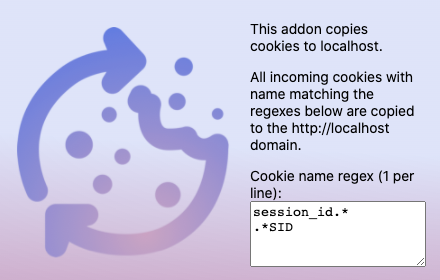
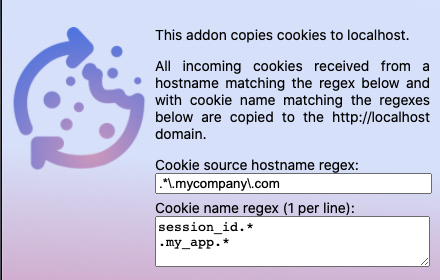
added hostname regex option

diff --git a/firefox/background.js b/firefox/background.js
@@ -1,25 +1,38 @@
-var defaultRgx = ["sessionid.*"].join('\n')
-var regexpesarray = [];
+var defaultHost = ".*\\.mycompany\\.com";
+var defaultNames = ["sessionid.*"].join('\n')
+
+var host;
+var namesArray = [];
 
 function updateRegexpes(save) {
-    browser.storage.local.get("regstr", function (res) {
-        var regstr = (res.regstr || defaultRgx);
+    browser.storage.local.get("regexNames", function (res) {
+        var regexNames = (res.regexNames || defaultNames);
+        namesArray = regexNames.split("\n")
+        register();
+    });
 
-        regexpesarray = regstr.split("\n")
-        console.log("updateRegexpes : " + regexpesarray)
-
-        browser.webRequest.onHeadersReceived.removeListener(onHeader)
-        browser.webRequest.onHeadersReceived.addListener(onHeader,
-            {urls: ["http://*/*", "https://*/*"]},
-            ["blocking", "responseHeaders"]
-        );
+    browser.storage.local.get("regexHost", function (res) {
+        host = (res.regexHost || defaultHost);
+        register();
     });
 }
 
+function register() {
+    browser.webRequest.onHeadersReceived.removeListener(onHeader)
+    browser.webRequest.onHeadersReceived.addListener(onHeader,
+        {urls: ["http://*/*", "https://*/*"]},
+        ["blocking", "responseHeaders"]
+    );
+}
+
 function onHeader(e) {
-    for (var header of e.responseHeaders) {
-        if (header.name.toLowerCase() === "set-cookie") {
-            copyCookies(header.value)
+    url = new URL(e.url);
+    urlhostname = url.hostname;
+    if (doesCookieHostMatch(urlhostname)) {
+        for (var header of e.responseHeaders) {
+            if (header.name.toLowerCase() === "set-cookie") {
+                copyCookies(header.value)
+            }
         }
     }
     return {responseHeaders: e.responseHeaders};
@@ -44,13 +57,18 @@ function copyCookies(headervalue) {
 }
 
 function doesCookieNameMatch(name) {
-    for (var regex of regexpesarray) {
+    for (var regex of namesArray) {
         if (name.match(regex)) {
             return true;
         }
     }
     return false;
 }
+
+function doesCookieHostMatch(cookiehost) {
+    return cookiehost.match(host);
+}
+
 updateRegexpes();
 
 var portFromCS;
@@ -58,8 +76,13 @@ var portFromCS;
 function connected(p) {
     portFromCS = p;
     portFromCS.onMessage.addListener(function (m) {
-        if (m.updateRegexpes) {
-            browser.storage.local.set({"regstr": m.updateRegexpes}, function (res) {
+        if (m.updateHost) {
+            browser.storage.local.set({"regexHost": m.updateHost}, function (res) {
+                updateRegexpes();
+            });
+        }
+        if (m.updateRegexNames) {
+            browser.storage.local.set({"regexNames": m.updateRegexNames}, function (res) {
                 updateRegexpes();
             });
         }

diff --git a/chrome/background.js b/chrome/background.js
@@ -1,24 +1,38 @@
-var defaultRgx = ["sessionid.*"].join('\n')
-var regexpesarray = [];
+var defaultHost = ".*\\.mycompany\\.com";
+var defaultNames = ["sessionid.*"].join('\n')
+
+var host;
+var namesArray = [];
 
 function updateRegexpes(save) {
-    chrome.storage.local.get("regstr", function (res) {
-        var regstr = (res.regstr || defaultRgx);
+    chrome.storage.local.get("regexNames", function (res) {
+        var regexNames = (res.regexNames || defaultNames);
+        namesArray = regexNames.split("\n")
+        register();
+    });
 
-        regexpesarray = regstr.split("\n")
-
-        chrome.webRequest.onHeadersReceived.removeListener(onHeader)
-        chrome.webRequest.onHeadersReceived.addListener(onHeader,
-            {urls: ["http://*/*", "https://*/*"]},
-            ["blocking", "responseHeaders", "extraHeaders"]
-        );
+    chrome.storage.local.get("regexHost", function (res) {
+        host = (res.regexHost || defaultHost);
+        register();
     });
 }
 
+function register() {
+    chrome.webRequest.onHeadersReceived.removeListener(onHeader)
+    chrome.webRequest.onHeadersReceived.addListener(onHeader,
+        {urls: ["http://*/*", "https://*/*"]},
+        ["blocking", "responseHeaders", "extraHeaders"]
+    );
+}
+
 function onHeader(e) {
-    for (var header of e.responseHeaders) {
-        if (header.name.toLowerCase() === "set-cookie") {
-            copyCookies(header.value)
+    url = new URL(e.url);
+    urlhostname = url.hostname;
+    if (doesCookieHostMatch(urlhostname)) {
+        for (var header of e.responseHeaders) {
+            if (header.name.toLowerCase() === "set-cookie") {
+                copyCookies(header.value)
+            }
         }
     }
     return {responseHeaders: e.responseHeaders};
@@ -43,13 +57,18 @@ function copyCookies(headervalue) {
 }
 
 function doesCookieNameMatch(name) {
-    for (var regex of regexpesarray) {
+    for (var regex of namesArray) {
         if (name.match(regex)) {
             return true;
         }
     }
     return false;
 }
+
+function doesCookieHostMatch(cookiehost) {
+    return cookiehost.match(host);
+}
+
 updateRegexpes();
 
 var portFromCS;
@@ -57,8 +76,13 @@ var portFromCS;
 function connected(p) {
     portFromCS = p;
     portFromCS.onMessage.addListener(function (m) {
-        if (m.updateRegexpes) {
-            chrome.storage.local.set({"regstr": m.updateRegexpes}, function (res) {
+        if (m.updateHost) {
+            chrome.storage.local.set({"regexHost": m.updateHost}, function (res) {
+                updateRegexpes();
+            });
+        }
+        if (m.updateRegexNames) {
+            chrome.storage.local.set({"regexNames": m.updateRegexNames}, function (res) {
                 updateRegexpes();
             });
         }

diff --git a/chrome/popup.html b/chrome/popup.html
@@ -8,7 +8,7 @@
     body {
         background: radial-gradient(129.7% 129.7% at 38.0% -17.6%, rgba(98, 132, 248, 0.2) 0%, rgba(82, 118, 235, 0.2) 23%, rgba(82, 118, 235, 0.2) 57%, rgba(210, 161, 197, 1) 100%);
         padding: 5px 10px 0px 5px;
-        width: 450px;
+        width: 275px;
         font-family: -apple-system, BlinkMacSystemFont, Segoe UI, Arial, sans-serif;
         color: black;
         font-size: 14px;
@@ -25,8 +25,14 @@
         margin-right: auto;
     }
 
-    textarea {
-        width: 100%;
+    textarea, input {
+        width: 269px;
+        margin-bottom: 5px;
+    }
+
+    a {
+        font-style: italic;
+        color: rgba(82, 118, 235, 0.5)
     }
 </style>
 
@@ -35,22 +41,19 @@
     This addon copies cookies to localhost.
 </p>
 <p>
-    All incoming cookies with name matching the regexes below are copied to the http://localhost domain.
+    All incoming cookies received from a hostname matching the regex below and with cookie name matching the regexes below are copied to the http://localhost domain.
 </p>
 
-<!--<div class="content">-->
-<!--    <a href="https://addons.mozilla.org/fr/firefox/addon/set-cookie-no-secure-httponly/" class="btn left">-->
-<!--        <span  class="right title"><span class="arrow-right"></span>Rate & About</span>-->
-<!--        <span class="left icon">&nbsp;&nbsp;⭐&nbsp;</span>-->
-<!--    </a>-->
-<!--</div>-->
-
+Cookie source hostname regex:
+<input type="text" class="regexhost"></input>
+<br>
 Cookie name regex (1 per line):
-<textarea class="regextextarea" rows="4"></textarea>
+<textarea class="regexnames" rows="3"></textarea>
 <p class="label" id="warning" style="background-color: red"></p>
 
 <p>
-    <i>Source: <a href="https://github.com/roelnoten/cookiesync">git</a></i>
+    <a href="https://github.com/roelnoten/cookiesync">Info</a>
+<!--    <a href="https://addons.mozilla.org/fr/firefox/addon/cookiesync" style="float:right">Rate & About</a>-->
 </p>
 <script type="text/javascript" src="popup.js"></script>
 </script>

diff --git a/firefox/popup.html b/firefox/popup.html
@@ -25,8 +25,14 @@
         margin-right: auto;
     }
 
-    textarea {
-        width: 100%;
+    textarea, input {
+        width: 269px;
+        margin-bottom: 5px;
+    }
+
+    a {
+        font-style: italic;
+        color: rgba(82, 118, 235, 0.5)
     }
 </style>
 
@@ -35,22 +41,19 @@
     This addon copies cookies to localhost.
 </p>
 <p>
-    All incoming cookies with name matching the regexes below are copied to the http://localhost domain.
+    All incoming cookies received from a hostname matching the regex below and with cookie name matching the regexes below are copied to the http://localhost domain.
 </p>
 
-<!--<div class="content">-->
-<!--    <a href="https://addons.mozilla.org/fr/firefox/addon/set-cookie-no-secure-httponly/" class="btn left">-->
-<!--        <span  class="right title"><span class="arrow-right"></span>Rate & About</span>-->
-<!--        <span class="left icon">&nbsp;&nbsp;⭐&nbsp;</span>-->
-<!--    </a>-->
-<!--</div>-->
-
+Cookie source hostname regex:
+<input type="text" class="regexhost"></input>
+<br>
 Cookie name regex (1 per line):
-<textarea class="regextextarea" rows="4"></textarea>
+<textarea class="regexnames" rows="3"></textarea>
 <p class="label" id="warning" style="background-color: red"></p>
 
 <p>
-    <i>Source: <a href="https://github.com/roelnoten/cookiesync">git</a></i>
+    <a href="https://github.com/roelnoten/cookiesync">Info</a>
+    <a href="https://addons.mozilla.org/fr/firefox/addon/cookiesync" style="float:right">Rate & About</a>
 </p>
 <script type="text/javascript" src="popup.js"></script>
 </script>

diff --git a/firefox/popup.js b/firefox/popup.js
@@ -1,18 +1,30 @@
-// content-script.js
-var defaultRgx =  ["sessionid.*"].join('\n')
+var defaultHost = ".*\\.mycompany\\.com";
+var defaultNames =  ["sessionid.*"].join('\n');
+
 var myPort = browser.runtime.connect({name:"port-from-cs"});
 myPort.onMessage.addListener(function(m) {
     document.querySelector("#warning").innerText=m.message
 });
-browser.storage.local.get("regstr", function(res) {
-    regstr = (res.regstr || defaultRgx);
-    document.querySelector(".regextextarea").value=regstr;
+
+browser.storage.local.get("regexNames", function(res) {
+    regexNames = (res.regexNames || defaultNames);
+    document.querySelector(".regexnames").value=regexNames;
 });
-window.onload= function()
-{
-    txarea = document.querySelector(".regextextarea");
+
+browser.storage.local.get("regexHost", function(res) {
+    regexHost = (res.regexHost || defaultHost);
+    document.querySelector(".regexhost").value=regexHost;
+});
+
+window.onload= function() {
+    input = document.querySelector(".regexhost");
+    input.onkeyup = input.onchange = function(){
+        v = input.value.trim()
+        myPort.postMessage({updateHost: v});
+    }
+    txarea = document.querySelector(".regexnames");
     txarea.onkeyup = txarea.onchange = function(){
-        regstr = txarea.value.trim()
-        myPort.postMessage({updateRegexpes: regstr});
+        v = txarea.value.trim()
+        myPort.postMessage({updateRegexNames: v});
     }
 }

diff --git a/chrome/popup.js b/chrome/popup.js
@@ -1,18 +1,30 @@
-// content-script.js
-var defaultRgx =  ["sessionid.*"].join('\n')
+var defaultHost = ".*\\.mycompany\\.com";
+var defaultNames =  ["sessionid.*"].join('\n');
+
 var myPort = chrome.runtime.connect({name:"port-from-cs"});
 myPort.onMessage.addListener(function(m) {
     document.querySelector("#warning").innerText=m.message
 });
-chrome.storage.local.get("regstr", function(res) {
-    regstr = (res.regstr || defaultRgx);
-    document.querySelector(".regextextarea").value=regstr;
+
+chrome.storage.local.get("regexNames", function(res) {
+    regexNames = (res.regexNames || defaultNames);
+    document.querySelector(".regexnames").value=regexNames;
 });
-window.onload= function()
-{
-    txarea = document.querySelector(".regextextarea");
+
+chrome.storage.local.get("regexHost", function(res) {
+    regexHost = (res.regexHost || defaultHost);
+    document.querySelector(".regexhost").value=regexHost;
+});
+
+window.onload= function() {
+    input = document.querySelector(".regexhost");
+    input.onkeyup = input.onchange = function(){
+        v = input.value.trim()
+        myPort.postMessage({updateHost: v});
+    }
+    txarea = document.querySelector(".regexnames");
     txarea.onkeyup = txarea.onchange = function(){
-        regstr = txarea.value.trim()
-        myPort.postMessage({updateRegexpes: regstr});
+        v = txarea.value.trim()
+        myPort.postMessage({updateRegexNames: v});
     }
 }

diff --git a/README.md b/README.md
@@ -3,14 +3,14 @@
 
 This is an add-on which copies cookies to localhost.
 
-This addon monitors all incoming cookies and all cookies matching a user defined name regex will be copied to the http://localhost domain.
+This addon monitors all incoming cookies from a user defined hostname regex and matching a user defined cookie name regex to copy them to the http://localhost domain.
 
 It's primary here for developers that have code running on their localhost which connects to other services and need access to their cookies. The typical use case is a third-party login flow. In production the developer's code wil run on the same domain as the other services and have access to the cookies they set.
 But when code is running on localhost (during development), those cookies are not accessible in the browser. This add on makes those cookies available on localhost, so available to the developer's local code.
 
 Screenshot:
 
-![](screenshot-firefox.png)
+![](firefox/screenshot.png)
 *Firefox*
 
 ![](screenshot-chrome.png)
@@ -33,8 +33,8 @@ An addon can log using console.log() statements.
 To get a view on these: Menu > Tools > Browser Tools > Browser Console.  Make sure that 'Show Content Messages' is checked in the top right settings popup menu.
 
 ### Packaging
-Repackage the addon via :
-zip -r -FS CookieSync.zip *
+Repackage the addon in firefox folder via :
+zip -r -FS CookieSync.zip background.js icon* manifest.json popup*
 
 ## Chrome
 You can let Chrome run the extension directly from the files in this folder, instead of via the store.
@@ -43,5 +43,5 @@ Click on the blue background page link to open console log window.
 Click the reload button when making changes.
 
 ### Packaging
-Repackage the extension via :
-zip -r -FS CookieSync.zip *
+Repackage the extension in chrome folder via :
+zip -r -FS CookieSync.zip background.js icon* manifest.json popup*
